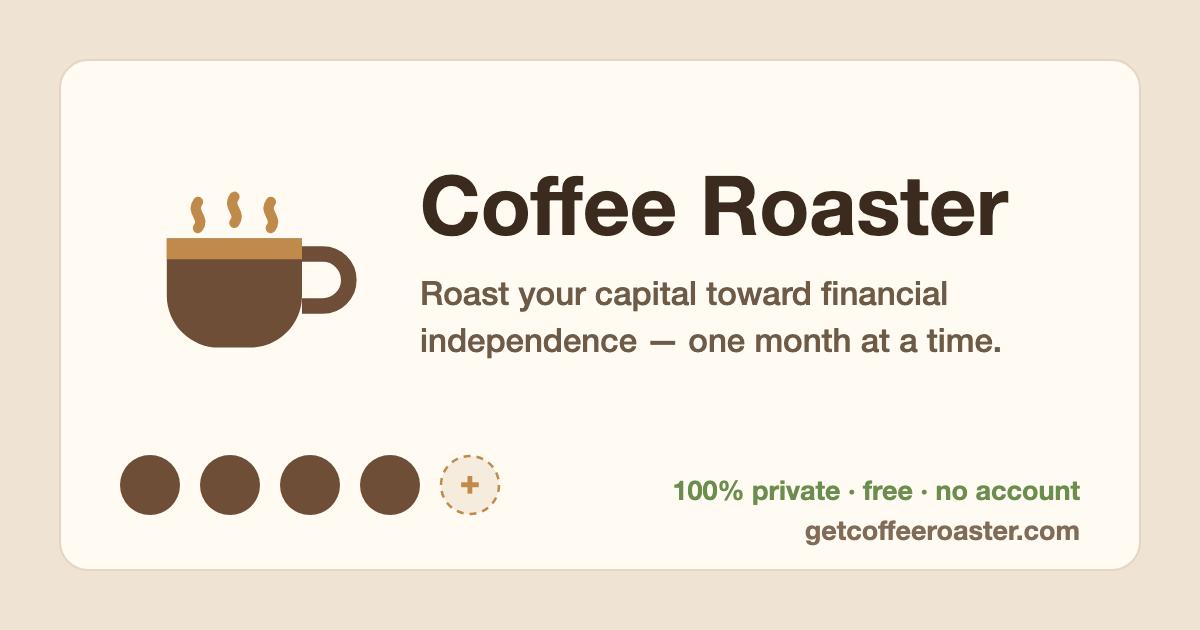
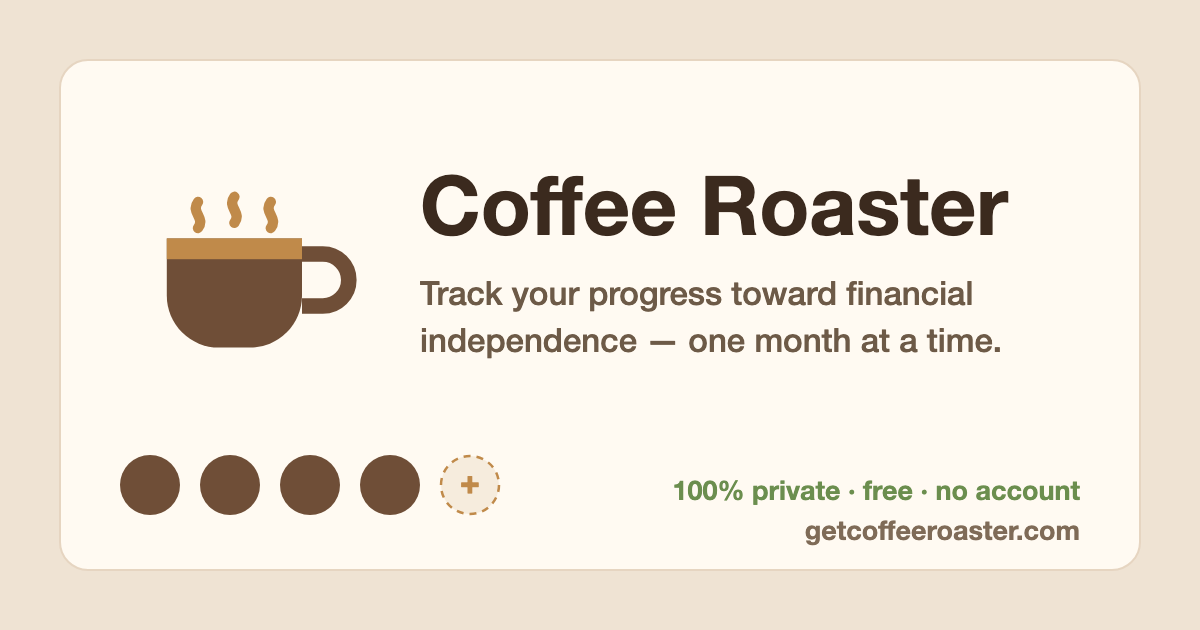
Métadonnées alignées sur la tagline claire : title/OG/partage/image OG « Track your progress / Suis ta progression » (fin du « Roast your capital » sur les surfaces de découverte)

Changed region(s): [[0.3392, 0.4524, 0.8325, 0.5127]]

diff --git a/public/index.html b/public/index.html
@@ -3,7 +3,7 @@
 <head>
 <meta charset="utf-8">
 <meta name="viewport" content="width=device-width, initial-scale=1">
-<title>Coffee Roaster — Roast your capital toward financial independence</title>
+<title>Coffee Roaster — Track your progress toward financial independence</title>
 <meta name="description" content="Track your progress toward financial independence, loyalty-card style. 100% private: your data stays in your browser, no account, no server.">
 <meta name="theme-color" content="#efe3d3">
 <link rel="manifest" href="/manifest.webmanifest">
@@ -12,7 +12,7 @@
 <meta name="apple-mobile-web-app-capable" content="yes">
 <meta name="apple-mobile-web-app-status-bar-style" content="default">
 <meta name="google-site-verification" content="7VHBNmMOzvTdpqIyMIpPo4xXP1tIbSzLA6h0irv0OPU">
-<meta property="og:title" content="Coffee Roaster — Roast your capital toward financial independence">
+<meta property="og:title" content="Coffee Roaster — Track your progress toward financial independence">
 <meta property="og:description" content="Track your progress toward financial independence, loyalty-card style. 100% private, no account.">
 <meta property="og:type" content="website">
 <meta property="og:url" content="https://getcoffeeroaster.com/">
@@ -419,7 +419,7 @@
               en:["Jan","Feb","Mar","Apr","May","Jun","Jul","Aug","Sep","Oct","Nov","Dec"]};
   var TXT={
     fr:{
-      title:"Coffee Roaster — Torréfie ton capital jusqu'à l'indépendance financière",
+      title:"Coffee Roaster — Suis ta progression vers l'indépendance financière",
       tag:"Suis ta progression vers l'indépendance financière — un mois à la fois.",
       btn_export:"Exporter", btn_export_t:"Télécharge un fichier de sauvegarde",
       btn_import:"Importer", btn_import_t:"Recharge une sauvegarde exportée",
@@ -454,7 +454,7 @@
       footer_note:"💾 Pense à cliquer <b>Exporter</b> pour sauvegarder tes données de temps en temps — vider le cache du navigateur les effacerait.",
       donate_btn:"☕ Offre-moi un café",
       share_app_btn:"Partager l'app",
-      share_app_text:"☕ Coffee Roaster — Torréfie ton capital jusqu'à l'indépendance financière. Gratuit, sans compte, 100 % privé.",
+      share_app_text:"☕ Coffee Roaster — Suis ta progression vers l'indépendance financière. Gratuit, sans compte, 100 % privé.",
       share_goal_btn:"Partager mon objectif",
       share_goal_text:"☕ Mon objectif : financièrement libre à {age} ans. Calcule le tien :",
       toast_copied:"Lien copié — colle-le où tu veux ☕",
@@ -551,7 +551,7 @@
       alert_invalid:"Fichier invalide."
     },
     en:{
-      title:"Coffee Roaster — Roast your capital toward financial independence",
+      title:"Coffee Roaster — Track your progress toward financial independence",
       tag:"Track your progress toward financial independence — one month at a time.",
       btn_export:"Export", btn_export_t:"Download a backup file",
       btn_import:"Import", btn_import_t:"Load an exported backup",
@@ -586,7 +586,7 @@
       footer_note:"💾 Click <b>Export</b> now and then to back up your data — clearing your browser cache would erase it.",
       donate_btn:"☕ Buy me a coffee",
       share_app_btn:"Share the app",
-      share_app_text:"☕ Coffee Roaster — Roast your capital toward financial independence. Free, no account, 100% private.",
+      share_app_text:"☕ Coffee Roaster — Track your progress toward financial independence. Free, no account, 100% private.",
       share_goal_btn:"Share my goal",
       share_goal_text:"☕ My goal: financially free at {age}. Work out yours:",
       toast_copied:"Link copied — paste it anywhere ☕",